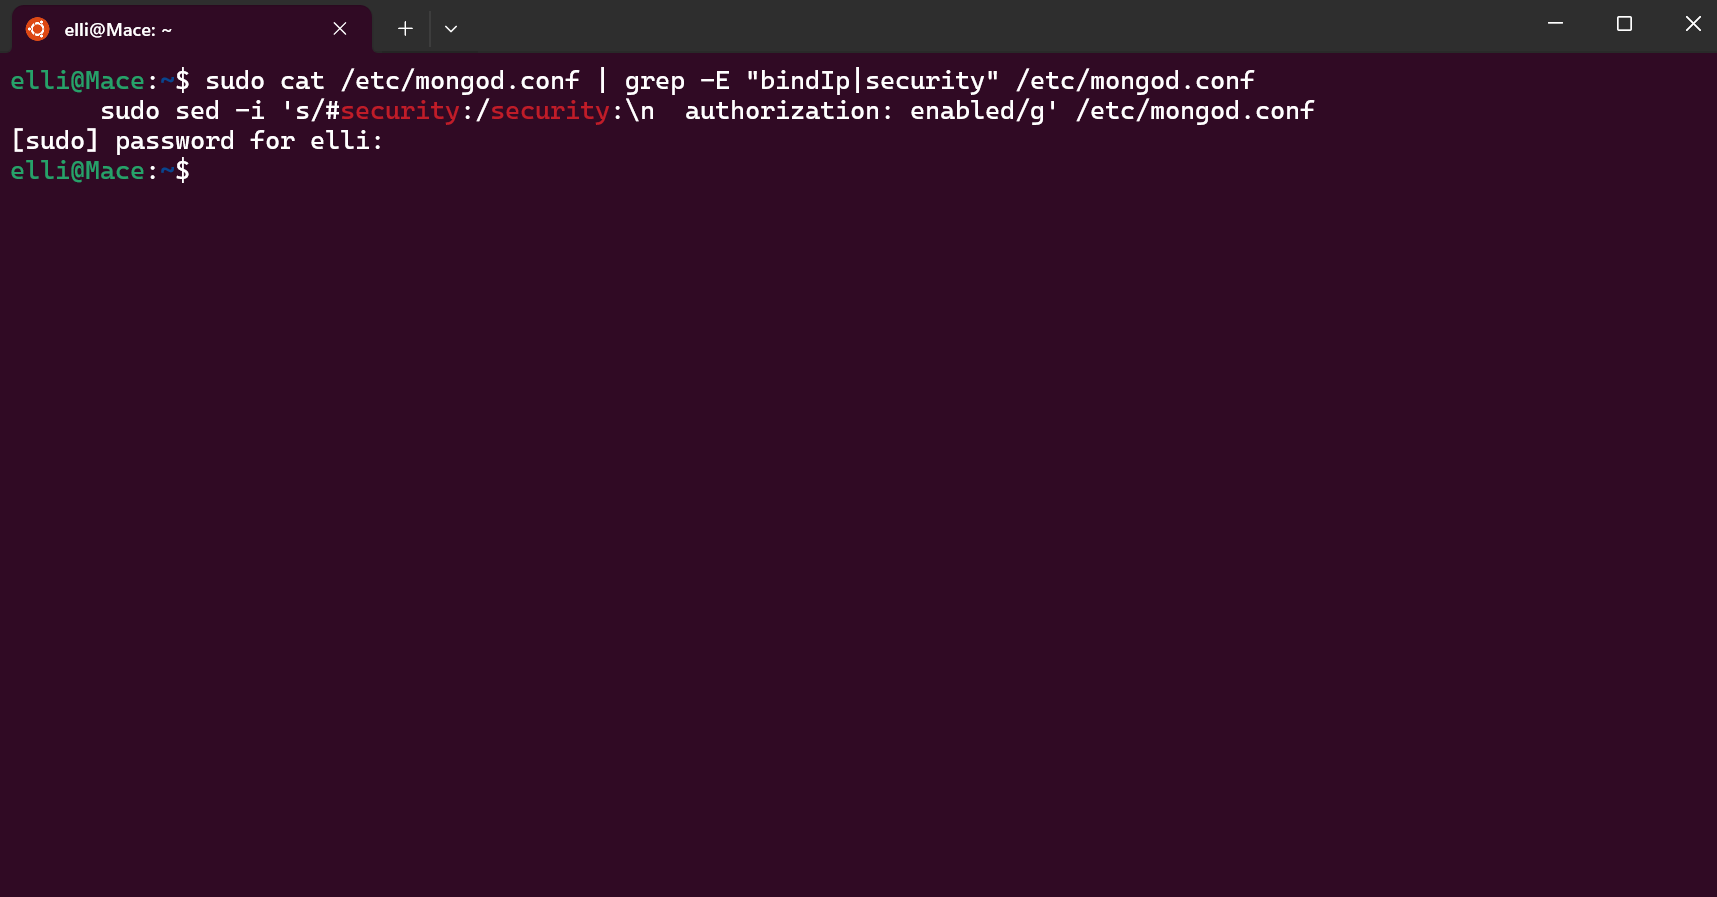
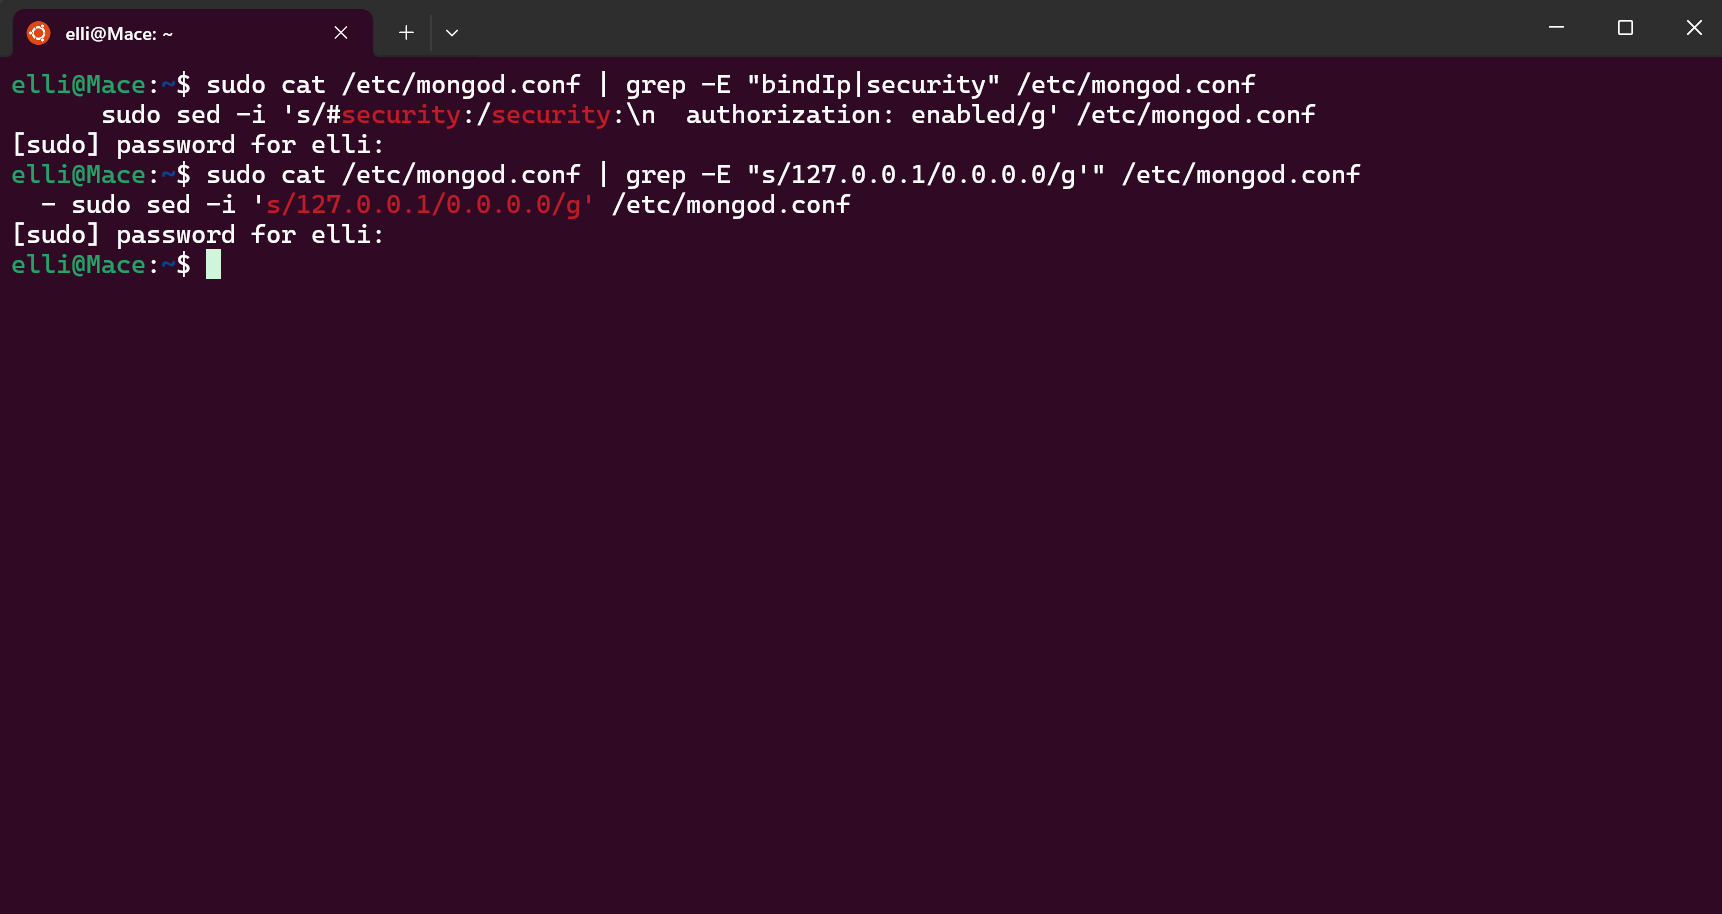
added all files and finished Abgabe B

Changed region(s): [[0.0, 0.0, 1.0, 0.3122]]

diff --git a/KN01/README.md b/KN01/README.md
@@ -4,8 +4,8 @@
 
 i used this command in cmd to connect to the instance: "ssh -i elizaveta-1.pem ubuntu@18.211.87.89"
 
-#### Abgabe Aufgabe A
-- Cloud-init File: [cloudinit](./cloudinit-mongodb.yaml)
+### Abgabe Aufgabe A
+- [Cloud-init](./cloudinit-mongodb.yaml) File
 
 - Compass Screenshot:
 ![KN01CompassConnection](./KN01AStringConnection.png)
@@ -14,5 +14,18 @@ i used this command in cmd to connect to the instance: "ssh -i elizaveta-1.pem u
 
 - the first sed statement in the cloud-init file replaces the commented out security with authentication. That means that without the authentication, i will not be able to connect to the database. With the second sed statement, it modifies from localhost ip to 0.0.0.0
 
-Screenshot of the two sed commands in mongodb config file:
+- Screenshot of the two sed commands in mongodb config file:
 ![screenshot](./mongodb-config-sed-command-output.png)
+
+### Abgabe Aufgabe B
+- Json File before inserting:
+![screenshot](./json-document-mongodb.png)
+
+- After inserting and updating the date datatype:
+![screenshot](adjusted-date-connectionandDB-visible.png)
+
+- Here is my [JSON File](./Kolpashchikova.Elizaveta-MongoDB.json) Exported
+It is also possible to adjust it with ``date: {"date": "30.08.2007"}`` then it will display it as a string format or with a date format like this: ``date: {"$date": "30.08.2007"}``.
+Date is only reconginzed in MongoDB with this syntax ``date: {"$date": "30.08.2007"}`` otherwise it wouln't allow or display the correct format.
+
+### Abgabe Aufgabe C
